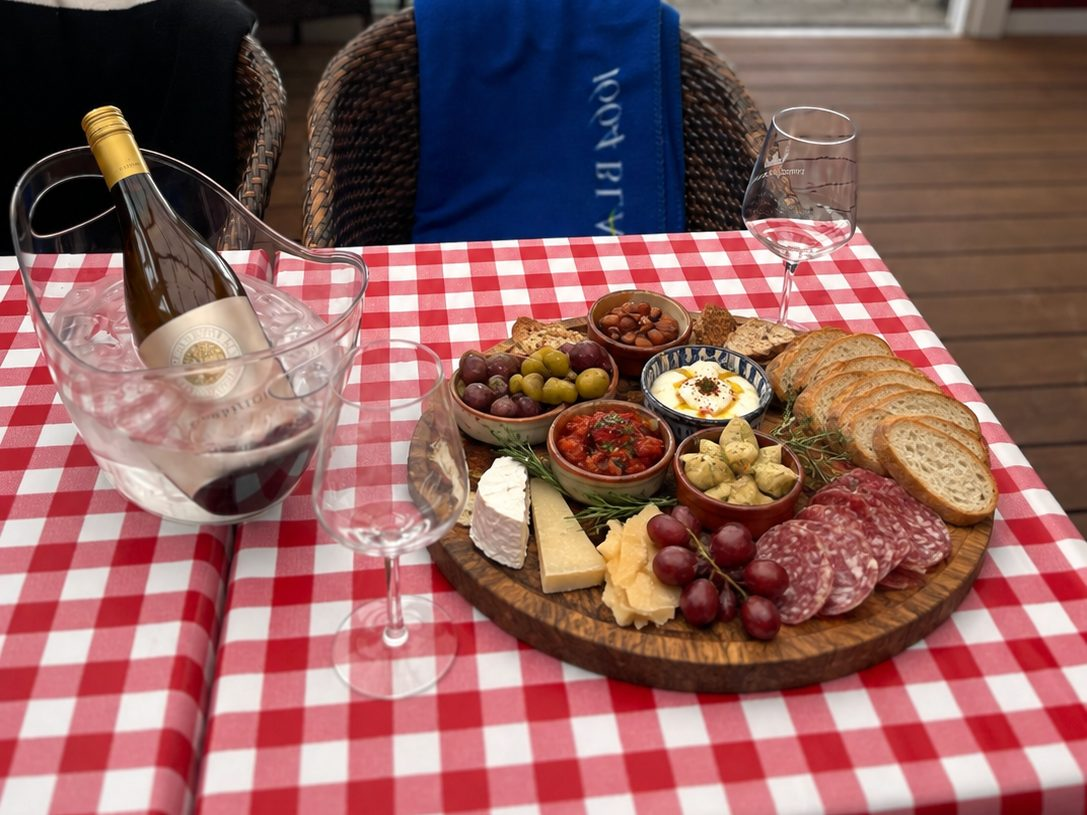
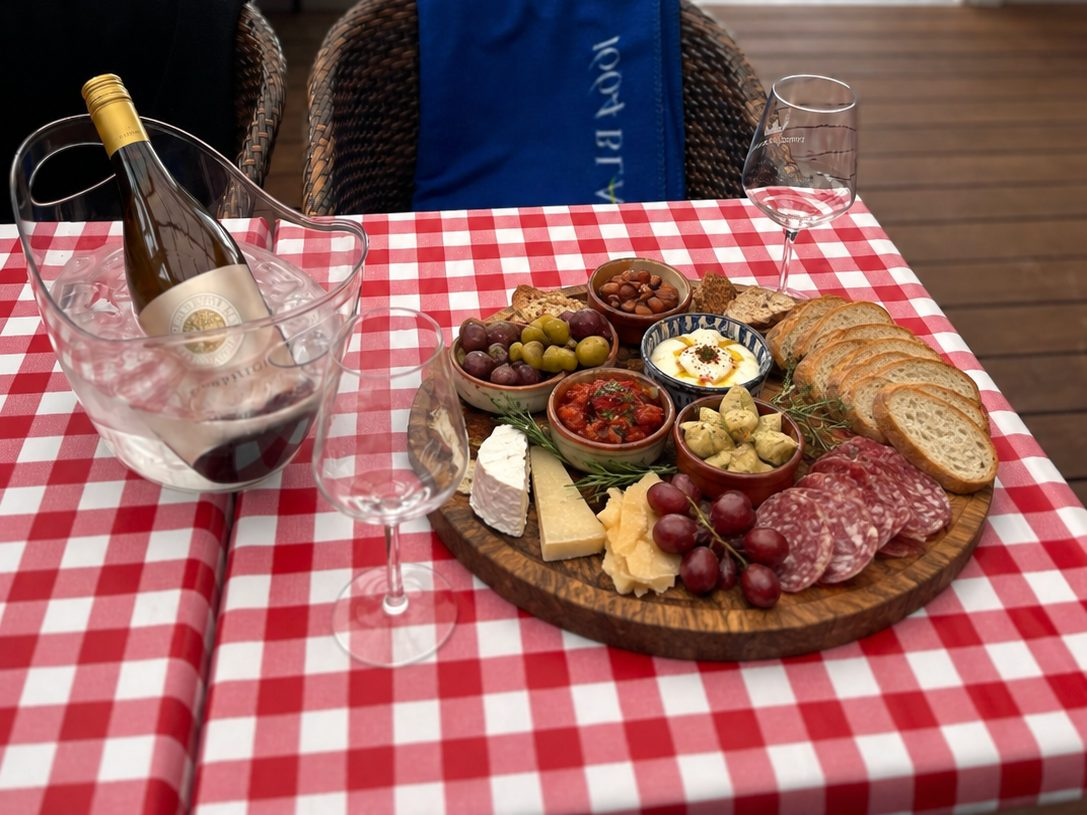
Tapasgalleriet: prikkerne er væk, og fadet står i midten af billedet
Kundens ord: 'der er prikker hvor man kan se den skifter, fjern dem' og
'beskær så man kan se tapasen'. Billederne skifter af sig selv; ved
reduceret bevægelse står det første stille. Udsnittene er skåret, så
fadet er helt med både i telefonens 4:3 og i computerens 16:9, hvor
top og bund skæres af (målt pr. billede).

Claude-Session: https://claude.ai/code/session_01435J9ruaihuYDzA7foxsCE

diff --git a/tests/skal-tapas.spec.js b/tests/skal-tapas.spec.js
@@ -505,37 +505,25 @@ test.describe('Billederne af fadet skifter', () => {
     await expect.poll(() => fremme(page), { timeout: 9000 }).toBe(1);
   });
 
-  test('prikkerne vælger billedet og siger, hvilket det er', async ({ page }) => {
+  /* ⚠ INGEN PRIKKER (11/9) — kundens ord: *"der er prikker hvor man
+     kan se den skifter, fjern dem"*. Billederne skifter af sig selv. */
+  test('der er ingen prikker — billederne skifter af sig selv', async ({ page }) => {
     await åbn(page, medFotos(3));
-    const knapper = page.locator('.skift-prikker button');
-    await expect(knapper).toHaveCount(3);
-    await expect(knapper.nth(2)).toHaveAttribute('aria-label', 'Billede 3 af 3');
-    await expect(knapper.nth(0)).toHaveAttribute('aria-current', 'true');
-
-    await knapper.nth(2).click();
-    await expect.poll(() => fremme(page)).toBe(2);
-    await expect(knapper.nth(2)).toHaveAttribute('aria-current', 'true');
-    await expect(knapper.nth(0)).not.toHaveAttribute('aria-current', 'true');
-
-    /* 30 px trykflade — gennemgangens gulv. */
-    const k = await knapper.nth(0).boundingBox();
-    expect(k.width).toBeGreaterThanOrEqual(30);
-    expect(k.height).toBeGreaterThanOrEqual(30);
+    await expect(page.locator('.tshot .foto-skift img')).toHaveCount(3);
+    await expect(page.locator('.tshot button, .skift-prikker')).toHaveCount(0);
   });
 
   /* ⚠ HER ER ET STOPUR RIGTIGT. Reglen er, at der IKKE sker noget,
      og et fravær kan ikke ventes frem. Ventetiden er længere end
      rytmen (4,6 s), så en regel, der skiftede alligevel, ville
      være nået at skifte. */
-  test('reduceret bevægelse: intet skifter af sig selv — prikkerne virker', async ({ browser }) => {
+  test('reduceret bevægelse: intet skifter af sig selv', async ({ browser }) => {
     const kon = await browser.newContext({ reducedMotion: 'reduce' });
     const s = await kon.newPage();
     await åbnSkal(s, '/m-tapas.html', { ur: FREDAG, data: medFotos(2) });
     await expect(s.locator('.tshot .foto-skift img')).toHaveCount(2);
     await s.waitForTimeout(6000);
     expect(await fremme(s)).toBe(0);
-    await s.locator('.skift-prikker button').nth(1).click();
-    await expect.poll(() => fremme(s)).toBe(1);
     await kon.close();
   });
 
@@ -555,8 +543,8 @@ test.describe('Billederne af fadet skifter', () => {
        før den nåede sin egen måling. Vagten siger det med ord. */
     expect(før.height, 'rammen er faldet sammen — galleriet har ingen højde')
       .toBeGreaterThan(100);
-    await page.locator('.skift-prikker button').nth(1).click();
-    await expect.poll(() => fremme(page)).toBe(1);
+    /* Uden prikker venter vi på det automatiske skift. */
+    await expect.poll(() => fremme(page), { timeout: 9000 }).toBe(1);
     const efter = await ramme.boundingBox();
     expect(Math.abs(efter.height - før.height)).toBeLessThan(1);
 

diff --git a/js/skal/billedplads.js b/js/skal/billedplads.js
@@ -191,10 +191,9 @@
      ⚠ DET GAMLE BILLEDE BLIVER STÅENDE, TIL DET NYE ER HENTET.
      Ellers er der et hul at se ned i, mens nettet arbejder.
 
-     ⚠ PRIKKERNE ER KNAPPER MED ET NAVN — 30 px trykflade, og en
-     skærmlæser hører "Billede 2 af 3". Ved reduceret bevægelse
-     skifter intet af sig selv, men prikkerne virker stadig: det
-     er gæsten, der har bedt om ro, ikke om færre billeder. */
+     ⚠ INGEN PRIKKER (11/9, kundens ord: *"der er prikker hvor man
+     kan se den skifter, fjern dem"*). Billederne skifter af sig
+     selv, og ved reduceret bevægelse står det første stille. */
   var SKIFT_MS = 4600;
 
   function galleri(liste, plads) {
@@ -217,19 +216,6 @@
       return f;
     });
 
-    var prikker = document.createElement('div');
-    prikker.className = 'skift-prikker';
-    var knapper = liste.map(function (url, nr) {
-      var k = document.createElement('button');
-      k.type = 'button';
-      k.setAttribute('aria-label', 'Billede ' + (nr + 1) + ' af ' + liste.length);
-      if (!nr) k.setAttribute('aria-current', 'true');
-      k.addEventListener('click', function () { vis(nr); start(); });
-      prikker.appendChild(k);
-      return k;
-    });
-    rod.appendChild(prikker);
-
     var nu = 0, venter = -1, ur = null;
     function vis(nr) {
       if (nr === nu) return;
@@ -238,9 +224,7 @@
       function skift() {
         if (venter !== nr) return;
         fotos[nu].classList.remove('vis');
-        knapper[nu].removeAttribute('aria-current');
         ny.classList.add('vis');
-        knapper[nr].setAttribute('aria-current', 'true');
         nu = nr;
       }
       if (ny.complete && ny.naturalWidth > 0) { skift(); return; }

diff --git a/havnegrillen.css b/havnegrillen.css
@@ -1193,10 +1193,6 @@ footer h3{color:#fff;font-size:32px;margin:12px 0 18px}
 .foto-skift{position:relative;width:100%;height:100%}
 .foto-skift img{position:absolute;inset:0;width:100%;height:100%;object-fit:cover;opacity:0;transition:opacity 1.2s ease}
 .foto-skift img.vis{opacity:1}
-.skift-prikker{position:absolute;left:0;right:0;bottom:8px;display:flex;justify-content:center;gap:2px}
-.skift-prikker button{width:30px;height:30px;padding:0;border:0;background:none;display:grid;place-items:center;cursor:pointer}
-.skift-prikker button::before{content:"";width:8px;height:8px;border-radius:50%;background:rgba(255,255,255,.62);border:1px solid rgba(36,26,23,.25);transition:background-color .3s ease}
-.skift-prikker button[aria-current="true"]::before{background:#fff}
 @media (prefers-reduced-motion:reduce){.foto-skift img{transition:none}}
 .tshot .foto-fyldt{display:block;object-fit:cover}
 /* Galleriet flyttede til smørrebrødssiden (29/8), og dér er der
